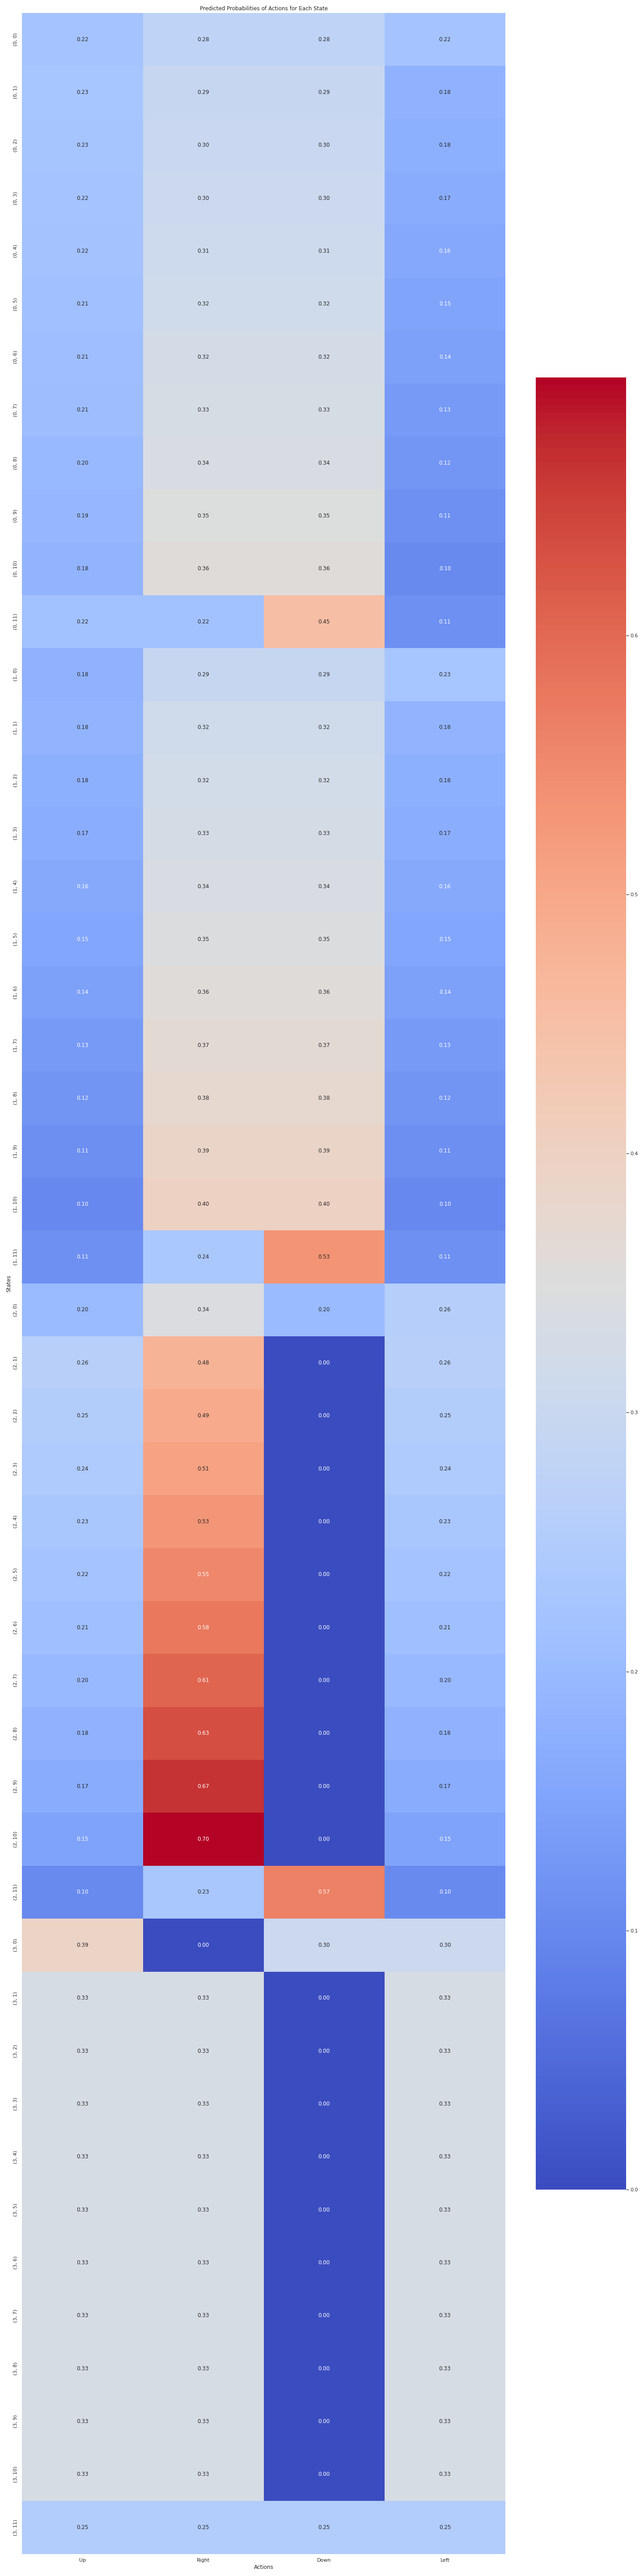
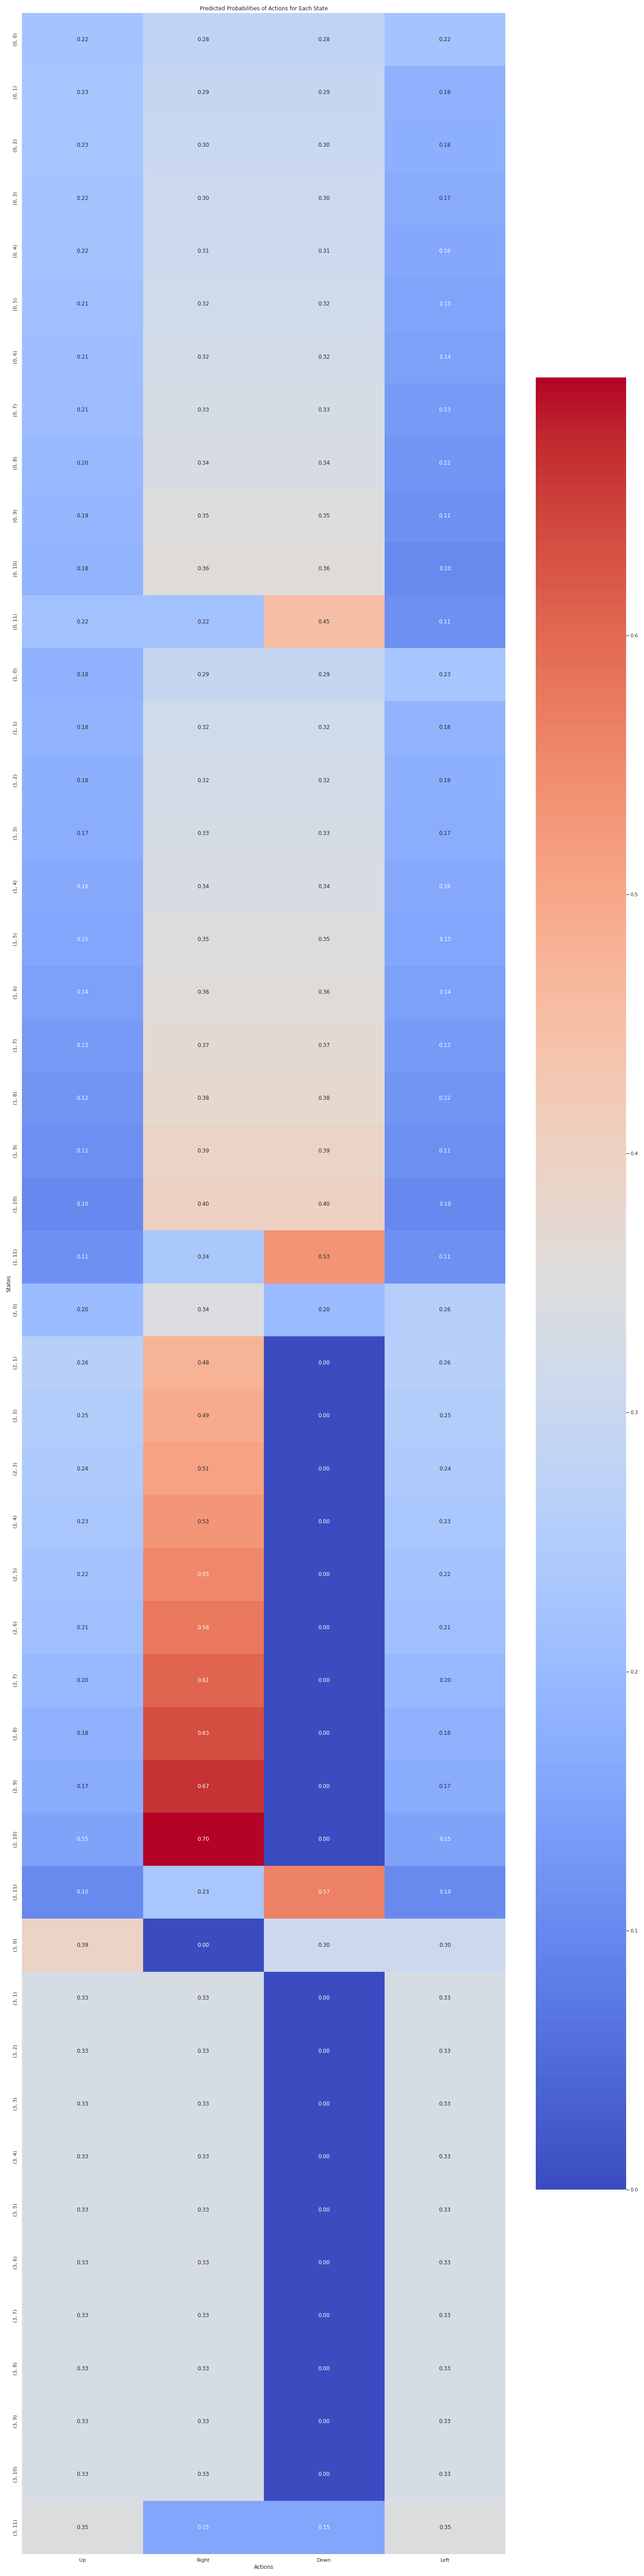
corrected lime code

Changed region(s): [[0.0312, 0.9688, 0.7812, 1.0]]

diff --git a/cliff_walking/interpretability_plots.py b/cliff_walking/interpretability_plots.py
@@ -287,12 +287,6 @@ class GetExplainabilityPlotsForEnv:
         graph.render("plots/decision_tree")  # Generates decision tree as a pdf file
         graph.view()
 
-
-import numpy as np
-import matplotlib.pyplot as plt
-from lime.lime_tabular import LimeTabularExplainer
-import seaborn as sns
-
 class LimeExplainer:
     def __init__(self, env, Q_table):
         self.env = env
@@ -307,81 +301,79 @@ class LimeExplainer:
             3: "Left",
         }
 
+        # Define the grid size (assuming a grid of 4 rows and 12 columns for CliffWalking)
+        self.grid_rows = 4
+        self.grid_cols = 12
+
     def softmax_with_temperature(self, x, temperature=1.0):
         """Softmax with temperature scaling."""
         exp_values = np.exp(x / temperature)
         return exp_values / np.sum(exp_values)
 
     def state_to_features(self, state):
-        """Convert CliffWalking state index to features."""
-        # Here we just treat the state as an integer representing the grid position.
-        # In this case, we directly use the state number.
-        return np.array([state])
+        """Convert CliffWalking state index to features (row, col)."""
+        row = state // self.grid_cols  # Row is the quotient of state divided by columns
+        col = state % self.grid_cols   # Column is the remainder of state divided by columns
+        return np.array([row, col])
 
-    def predict_fn(self, x):
-        q_values = []
-        for sample in x:
-            state = int(sample)
+    def predict_fn(self):
+        """Generate prediction function that outputs action probabilities."""
+        def predict(x):
+            scores = []
+            for sample in x:
+                # Clamp row and col to ensure they are within the grid bounds
+                row, col = map(int, sample)
+                row = max(0, min(row, self.grid_rows - 1))  # Ensure row is between 0 and 3
+                col = max(0, min(col, self.grid_cols - 1))  # Ensure col is between 0 and 11
 
-            if state >= self.state_dim or state < 0:
-                q_values.append(np.ones(self.action_dim) / self.action_dim)  # Default to uniform distribution
-            else:
-                q_values.append(self.softmax_with_temperature(self.Q_table[state], temperature=1.0))  # Softmax with temperature
+                # Convert (row, col) to state index
+                state = self.features_to_state(row, col)
+                
+                # Get the Q-values for the current state
+                q_values = self.Q_table[state]
+                
+                # Apply softmax to get the probabilities for each action
+                probabilities = self.softmax_with_temperature(q_values)
+                
+                # Append the probabilities for the current state
+                scores.append(probabilities)
+            return np.array(scores)
+        return predict
 
-        return np.array(q_values)
-
+    def features_to_state(self, row, col):
+        """Convert (row, col) back to state index."""
+        return row * self.grid_cols + col
 
     def generate_lime_explanations(self, state_to_explain):
-        """Generate LIME explanations for the chosen state."""
+        """Generate LIME explanations for the best action at the chosen state."""
+        
+        # Get the best action for the state (max Q-value)
+        best_action = np.argmax(self.Q_table[state_to_explain])
 
+        # Create the LIME explainer
         explainer = LimeTabularExplainer(
             training_data=np.array([self.state_to_features(s) for s in range(self.state_dim)]),
-            feature_names=["state"],  # The only feature is the state number
+            feature_names=["row", "col"],  # Features are row and column in the grid
             class_names=self.action_labels,  # Action names are correctly passed
             discretize_continuous=False
         )
 
-        explanations = {}
-        for action in range(self.action_dim):
-            exp = explainer.explain_instance(
-                self.state_to_features(state_to_explain),
-                self.predict_fn,
-                labels=[action],  # Specify the action label for explanation
-                num_features=1  # Since we only have 1 feature, we'll set num_features to 1
-            )
-            
-            explanations[action] = exp
+        # Generate explanation for only the best action
+        exp = explainer.explain_instance(
+            self.state_to_features(state_to_explain),
+            self.predict_fn(),  # Use the simplified predict_fn
+            labels=[best_action],  # Specify the best action label for explanation
+            num_features=2  # Now we have 2 features (row and col)
+        )
         
-        
-        lime_explainer.print_lime_explanations(explanations, state_to_explain)
+        # Print and plot explanations
+        self.print_lime_explanations(exp, best_action, state_to_explain)
 
-    def plot_lime_explanations(self, explanations, state_to_explain):
-        """Plot the LIME explanations for each action."""
+    def print_lime_explanations(self, explanation, best_action, state_to_explain):
+        """Print the LIME explanations and show the plot."""
+        print(f"Explanation for State:{state_to_explain} Best Action {best_action} ({self.action_symbols[best_action]}):")
+        explanation.as_pyplot_figure()
 
-        # Initialize the figure
-        plt.figure(figsize=(12, 8))
-        sns.set(style="whitegrid")  # Apply a nicer grid style
-
-        for action, exp in explanations.items():
-            try:
-                fig = exp.as_pyplot_figure()
-                fig.suptitle(f'LIME Explanation for Action: {self.action_symbols[action]}', fontsize=14)
-                plt.tight_layout()
-                plt.show()
-            except KeyError as e:
-                print(f"Explanation for Action {self.action_symbols[action]} not available due to KeyError: {e}")
-                print(f"Predictions for state {state_to_explain} : {self.predict_fn([state_to_explain])}")
-
-
-    def print_lime_explanations(self, explanations, state_to_explain):
-        """Print the LIME explanations and show the plots."""
-        for action in range(self.action_dim):
-            print(f"Explanation for Action {action} ({self.action_symbols[action]}):")
-            explanations[action].show_in_notebook()  # For notebook-based environments
-            
-        self.plot_lime_explanations(explanations, state_to_explain)
-
-    
 def get_policy(env, Q_table):
     policy = {}
     states = []
@@ -446,4 +438,4 @@ if __name__ == '__main__':
 
     lime_explainer = LimeExplainer(env, Q_table)
 
-    lime_explainer.generate_lime_explanations(state_to_explain=36)
+    lime_explainer.generate_lime_explanations(state_to_explain=16)

diff --git a/taxi/taxi_env_intrepretability_plots.py b/taxi/taxi_env_intrepretability_plots.py
@@ -277,7 +277,6 @@ class GetExplainabilityPlotsForEnv:
         graph.render("plots/decision_tree")  # Generates decision tree as a pdf file
         graph.view()
         
-        
 class LimeExplainer:
     def __init__(self, env, Q_table):
         self.env = env
@@ -294,7 +293,7 @@ class LimeExplainer:
             5: "Dropoff"
         }
 
-    def softmax_with_temperature(self, x, temperature=0.5):
+    def softmax_with_temperature(self, x, temperature=0.1):
         """Softmax with temperature scaling."""
         exp_values = np.exp(x / temperature)
         return exp_values / np.sum(exp_values)
@@ -304,53 +303,52 @@ class LimeExplainer:
         taxi_row, taxi_col, passenger, destination = self.env.decode(state)
         return np.array([taxi_row, taxi_col, passenger, destination])
 
-    def predict_fn(self, x):
-        q_values = []
-        for sample in x:
-            taxi_row, taxi_col, passenger, destination = map(int, sample)
+    def predict_fn(self):
+        """Generate prediction function that outputs action probabilities."""
+        def predict(x):
+            scores = []
+            for sample in x:
+                taxi_row, taxi_col, passenger, destination = map(int, sample)
+                taxi_row = int(min(max(taxi_row, 0), 4))
+                taxi_col = int(min(max(taxi_col, 0), 4))
+                passenger = int(min(max(passenger, 0), 4))
+                destination = int(min(max(destination, 0), 3))
 
-            # Ensure valid bounds
-            taxi_row = min(max(taxi_row, 0), 4)
-            taxi_col = min(max(taxi_col, 0), 4)
-            passenger = min(max(passenger, 0), 4)
-            destination = min(max(destination, 0), 3)
+                state = self.env.encode(taxi_row, taxi_col, passenger, destination)
+                q_values = self.Q_table[state]
+                probabilities = self.softmax_with_temperature(q_values)
+                scores.append(probabilities)
+            return np.array(scores)
+        return predict
+    
+    def generate_lime_explanation_for_chosen_action(self, state_to_explain=62):
+        """Generate a LIME explanation for the greedy action at the given state."""
 
-            state = self.env.encode(taxi_row, taxi_col, passenger, destination)
+        
+        # Get the best action for the state (max Q-value)
+        best_action = np.argmax(self.Q_table[state_to_explain])
 
-            if state >= self.state_dim or state < 0:
-                q_values.append(np.ones(self.action_dim) / self.action_dim)  # Uniform probability
-            else:
-                q_values.append(self.softmax_with_temperature(self.Q_table[state], temperature=1.0))  # Higher temperature
-
-        return np.array(q_values)  # Shape: (n_samples, action_dim)
-
-    def generate_lime_explanations(self, state_to_explain=62):
-        """Generate LIME explanations for the chosen state."""
+        # Create the LIME explainer
         explainer = LimeTabularExplainer(
             training_data=np.array([self.state_to_features(s) for s in range(self.state_dim)]),
-            feature_names=["taxi_row", "taxi_col", "passenger", "destination"],
-            class_names=self.action_labels,  # Action names
+            feature_names=["taxi_row", "taxi_col", "passenger", "destination"], # Features are row and column in the grid
+            class_names=self.action_labels,  # Action names are correctly passed
             discretize_continuous=False
         )
-
-        explanations = {}
-        for action in range(self.action_dim):
-            exp = explainer.explain_instance(
-                self.state_to_features(state_to_explain),
-                self.predict_fn,
-                labels=[action],  # Specify the action label for explanation
-                num_features=4
-            )
-            explanations[action] = exp
-
-        return explanations
-
-    def print_lime_explanations(self, explanations):
-        """Print the LIME explanations."""
         
-        for action in range(self.action_dim):
-            print(f"Explanation for Action {action} ({self.action_symbols[action]}):")
-            explanations[action].show_in_notebook()
+        explanation = explainer.explain_instance(
+            self.state_to_features(state_to_explain),
+            self.predict_fn(),
+            labels=[best_action], 
+            num_features=4
+        )
+                
+        print(f"Env locations for State {env.locs}:")
+
+        # Show feature-wise contributions for the chosen action
+        print(f"\nExplanation for State:{state_to_explain} Action {best_action} ({self.action_symbols[best_action]}):")
+        explanation.show_in_notebook()
+
 
 
 def get_policy(env, Q_table):
@@ -413,19 +411,4 @@ if __name__ == '__main__':
 
     lime_explainer = LimeExplainer(env, Q_table)
 
-    explanations = lime_explainer.generate_lime_explanations(state_to_explain=62)
-
-    lime_explainer.print_lime_explanations(explanations)
-
-
-    """ 
-    Lime plot might mean something like:
-
-    taxi_row = 0.11 (not south) suggests that a higher taxi_row makes "South" less likely. For example, if the taxi is higher up in the grid (in a higher row), "South" is less likely to be chosen.
-
-    passenger = 0.08 (south) suggests that having a passenger (or a certain state of the passenger) increases the likelihood of choosing "South".
-
-    taxi_col = 0.04 (not south) suggests that taxi_col has a small negative impact on choosing "South".
-
-    destination = 0.03 (not south) suggests that the destination feature also has a small negative impact on choosing "South
-    """
+    lime_explainer.generate_lime_explanation_for_chosen_action(state_to_explain=1)
